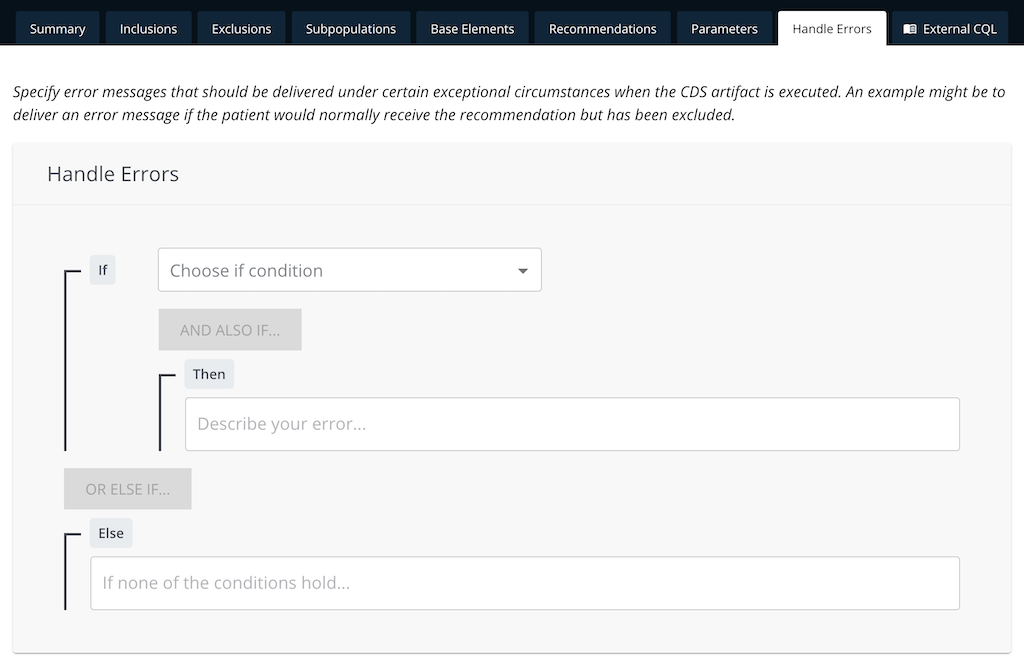
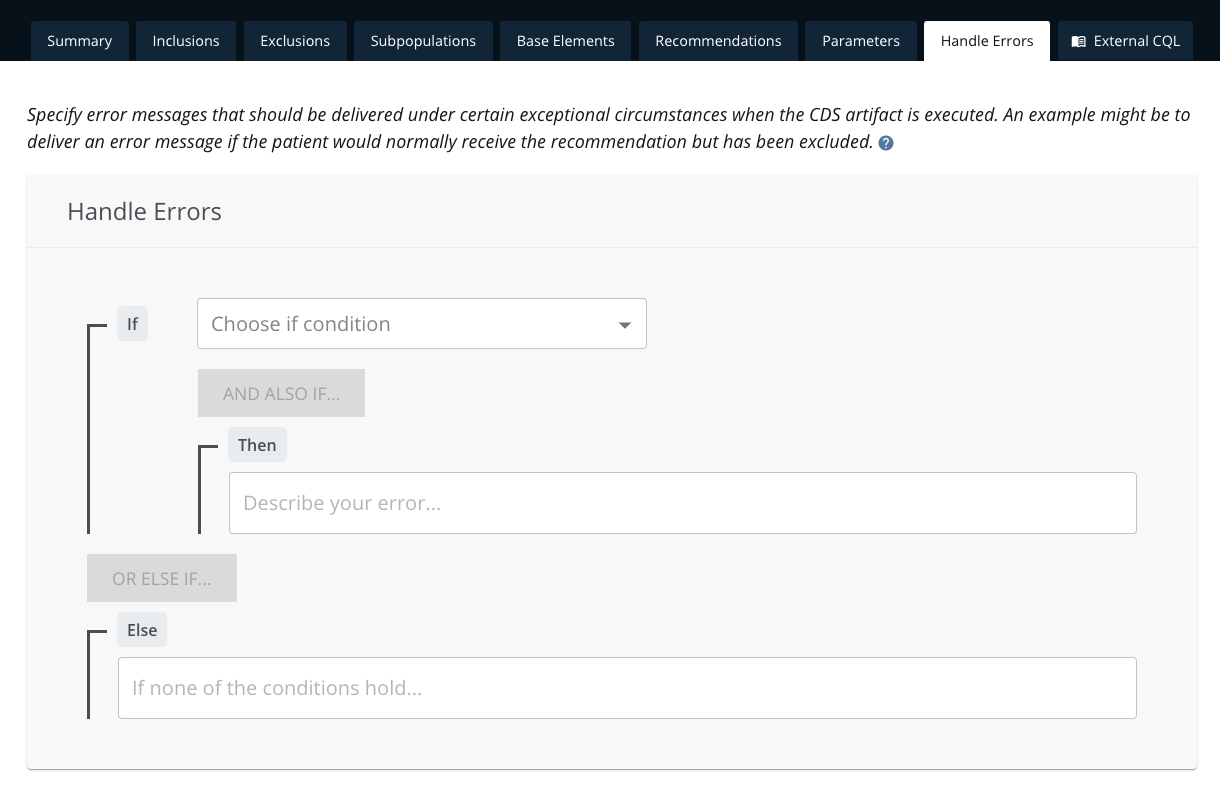
Merged in help_links (pull request #466)
Help links to Artifacts, Testing, and each Workspace tab view

* added help link components and styles

changes to add no referrer and more code cleanup

Updated documentation images for help link

Approved-by: Jacob Thomas
Approved-by: Noranda Brown

diff --git a/frontend/src/containers/Builder.js b/frontend/src/containers/Builder.js
@@ -57,6 +57,8 @@ import { parametersHaveWarnings } from 'components/builder/parameters/utils';
 import artifactProps from 'prop-types/artifact';
 import { Summary } from 'components/builder/summary';
 
+import { HelpLink } from 'components/elements';
+
 // TODO: This is needed because the tree on this.state is not updated in time. Figure out a better way to handle this
 let localTree;
 
@@ -697,6 +699,7 @@ export class Builder extends Component {
                     Specify criteria to identify a target population that should receive a recommendation from this
                     artifact. Examples might include an age range, gender, presence of a certain condition, or lab
                     results within a specific range.
+                    <HelpLink linkPath="documentation#Inclusions" />
                   </div>
                   {this.renderConjunctionGroup('expTreeInclude')}
                 </TabPanel>
@@ -707,6 +710,7 @@ export class Builder extends Component {
                     therefore, from receiving a recommendation from this artifact. Examples might include pregnancy
                     status, out of bound lab results, or evidence that the recommended therapy is already being used by
                     the patient.
+                    <HelpLink linkPath="documentation#Exclusions" />
                   </div>
                   {this.renderConjunctionGroup('expTreeExclude')}
                 </TabPanel>
@@ -716,6 +720,7 @@ export class Builder extends Component {
                     Specify criteria that further segments the target population into subpopulations that should receive
                     more specific recommendations. An example might be splitting the population by risk score so that
                     higher risk patients receive a stronger recommendation than lower risk patients.
+                    <HelpLink linkPath="documentation#Subpopulations" />
                   </div>
 
                   <Subpopulations
@@ -749,6 +754,7 @@ export class Builder extends Component {
                     Specify individual elements that can be re-used in the Inclusions, Exclusions, and Subpopulations,
                     or should standalone as independent expressions in the resulting artifact. An example might be a lab
                     result value that is referenced multiple times throughout the artifact.
+                    <HelpLink linkPath="documentation#Base_Elements" />
                   </div>
 
                   <BaseElements
@@ -783,6 +789,7 @@ export class Builder extends Component {
                     Specify the text-based recommendations that should be delivered to the clinician when a patient
                     meets the eligible criteria as defined in the artifact. Examples might include recommendations to
                     order a medication, perform a test, or provide the patient educational materials.
+                    <HelpLink linkPath="documentation#Recommendations" />
                   </div>
 
                   <Recommendations
@@ -801,6 +808,7 @@ export class Builder extends Component {
                     Specify named parameters that allow individual implementers to control pre-determined aspects of the
                     artifact in their own environment. Examples might include the option to allow lower grade evidence,
                     thresholds at which recommendations should be provided, or customized age ranges.
+                    <HelpLink linkPath="documentation#Parameters" />
                   </div>
 
                   <Parameters
@@ -817,6 +825,7 @@ export class Builder extends Component {
                     Specify error messages that should be delivered under certain exceptional circumstances when the CDS
                     artifact is executed. An example might be to deliver an error message if the patient would normally
                     receive the recommendation but has been excluded.
+                    <HelpLink linkPath="documentation#Handle_Errors" />
                   </div>
 
                   <ErrorStatement handleUpdateErrorStatement={this.updateErrorStatement} />
@@ -825,6 +834,7 @@ export class Builder extends Component {
                 <TabPanel>
                   <div className="workspace-blurb">
                     Reference external CQL libraries that can be used in Inclusions, Exclusions, and Subpopulations.
+                    <HelpLink linkPath="documentation#External_CQL" />
                   </div>
 
                   <ExternalCQL

diff --git a/frontend/src/components/testing/PatientsTable.js b/frontend/src/components/testing/PatientsTable.js
@@ -6,6 +6,7 @@ import { Check as CheckIcon, Lock as LockIcon } from '@material-ui/icons';
 
 import PatientsTableRow from './PatientsTableRow';
 import ExecuteCQLModal from './modals/ExecuteCQLModal';
+import { HelpLink } from 'components/elements';
 import { VSACAuthenticationModal } from 'components/modals';
 import { sortAlphabeticallyByPatientName } from 'utils/sort';
 import { useSpacingStyles, useTableStyles } from 'styles/hooks';
@@ -39,25 +40,31 @@ const PatientsTable = ({ handleExecuteCQL, patients }) => {
 
   return (
     <div className={spacingStyles.verticalPadding} id="patients-table">
-      <div className={styles.patientsTableButtons}>
-        <Button
-          color="primary"
-          disabled={Boolean(vsacApiKey)}
-          onClick={() => setShowVSACAuthenticationModal(true)}
-          variant="contained"
-          startIcon={Boolean(vsacApiKey) ? <CheckIcon /> : <LockIcon />}
-        >
-          {Boolean(vsacApiKey) ? 'VSAC Authenticated' : 'Authenticate VSAC'}
-        </Button>
+      <div className={styles.helpLinkRow}>
+        <div className={styles.patientsTableButtons}>
+          <Button
+            color="primary"
+            disabled={Boolean(vsacApiKey)}
+            onClick={() => setShowVSACAuthenticationModal(true)}
+            variant="contained"
+            startIcon={Boolean(vsacApiKey) ? <CheckIcon /> : <LockIcon />}
+          >
+            {Boolean(vsacApiKey) ? 'VSAC Authenticated' : 'Authenticate VSAC'}
+          </Button>
 
-        <Button
-          color="primary"
-          disabled={!Boolean(vsacApiKey) || selectedPatients.length === 0}
-          onClick={() => setShowExecuteCQLModal(true)}
-          variant="contained"
-        >
-          Execute CQL on Selected Patients
-        </Button>
+          <Button
+            color="primary"
+            disabled={!Boolean(vsacApiKey) || selectedPatients.length === 0}
+            onClick={() => setShowExecuteCQLModal(true)}
+            variant="contained"
+          >
+            Execute CQL on Selected Patients
+          </Button>
+        </div>
+
+        <div className={styles.helpLink}>
+          <HelpLink linkPath="documentation#Testing_Artifacts" showText />
+        </div>
       </div>
 
       <TableContainer>

diff --git a/frontend/src/components/artifact/Artifact.js b/frontend/src/components/artifact/Artifact.js
@@ -10,11 +10,16 @@ import ArtifactTable from './ArtifactTable';
 import { useSpacingStyles, useTextStyles } from 'styles/hooks';
 import { addArtifact, deleteArtifact, fetchArtifacts, updateArtifact, duplicateArtifact } from 'queries/artifacts';
 
+import { HelpLink } from 'components/elements';
+
+import useStyles from './styles';
+
 const Artifact = () => {
   const [showModal, setShowModal] = useState(false);
   const spacingStyles = useSpacingStyles();
   const textStyles = useTextStyles();
   const queryClient = useQueryClient();
+  const styles = useStyles();
   const { data, error, isLoading, isSuccess } = useQuery('artifacts', () => fetchArtifacts());
   const artifacts = data ?? [];
   const resetArtifacts = () => queryClient.invalidateQueries('artifacts');
@@ -39,9 +44,12 @@ const Artifact = () => {
 
       {isSuccess && (
         <div className={clsx(spacingStyles.minHeight, spacingStyles.verticalPadding)}>
-          <Button color="primary" onClick={() => setShowModal(true)} startIcon={<AddIcon />} variant="contained">
-            Create New Artifact
-          </Button>
+          <div className={styles.helpLink}>
+            <Button color="primary" onClick={() => setShowModal(true)} startIcon={<AddIcon />} variant="contained">
+              Create New Artifact
+            </Button>
+            <HelpLink linkPath="documentation#Creating_and_Managing_Artifacts" showText />
+          </div>
 
           {artifacts.length > 0 ? (
             <ArtifactTable

diff --git a/frontend/src/components/elements/HelpLink/HelpLink.js b/frontend/src/components/elements/HelpLink/HelpLink.js
@@ -1,0 +1,49 @@
+import React from 'react';
+import PropTypes from 'prop-types';
+import { Link as RouterLink } from 'react-router-dom';
+import { Button, IconButton, Tooltip } from '@material-ui/core';
+import { Help as HelpIcon } from '@material-ui/icons';
+
+import useStyles from './styles';
+
+const HelpLink = ({ linkPath, showText, tooltipTitle = 'View Documentation' }) => {
+  const styles = useStyles();
+
+  return (
+    <>
+      {showText ? (
+        <Button
+          className={styles.helpButton}
+          color="primary"
+          component={RouterLink}
+          rel="noopener noreferrer"
+          target="_blank"
+          to={`/${linkPath}`}
+        >
+          <HelpIcon /> HELP
+        </Button>
+      ) : (
+        <Tooltip title={tooltipTitle} arrow>
+          <IconButton
+            className={styles.helpLink}
+            href={`${process.env.PUBLIC_URL}/${linkPath}`}
+            rel="noopener noreferrer"
+            size="small"
+            target="_blank"
+            variant="contained"
+          >
+            <HelpIcon />
+          </IconButton>
+        </Tooltip>
+      )}
+    </>
+  );
+};
+
+HelpLink.propTypes = {
+  linkPath: PropTypes.string.isRequired,
+  showText: PropTypes.bool,
+  tooltipTitle: PropTypes.string
+};
+
+export default HelpLink;

diff --git a/frontend/src/components/elements/HelpLink/styles.js b/frontend/src/components/elements/HelpLink/styles.js
@@ -1,0 +1,22 @@
+import { makeStyles } from '@material-ui/core/styles';
+
+export default makeStyles(
+  theme => ({
+    helpButton: {
+      color: theme.palette.common.blueHighlight,
+      fontSize: '16px',
+      fontWeight: '600',
+      '& svg': {
+        fontSize: '18px',
+        marginRight: '3px'
+      }
+    },
+    helpLink: {
+      color: theme.palette.common.blueHighlight,
+      '& svg': {
+        fontSize: '18px'
+      }
+    }
+  }),
+  { name: 'HelpLink', index: 1 }
+);

diff --git a/frontend/src/components/testing/styles.js b/frontend/src/components/testing/styles.js
@@ -59,6 +59,12 @@ export default makeStyles(
         marginRight: '20px'
       }
     },
+    helpLinkRow: {
+      display: 'flex'
+    },
+    helpLink: {
+      margin: '2em 0 2em auto'
+    },
     testerInstructions: {
       backgroundColor: theme.palette.common.grayLighter,
       borderRadius: '0.2em',

diff --git a/frontend/src/components/elements/index.js b/frontend/src/components/elements/index.js
@@ -1,4 +1,5 @@
 export { default as Dropdown } from './Dropdown';
+export { default as HelpLink } from './HelpLink';
 export { default as KeyValueList } from './KeyValueList';
 export { default as Link } from './Link';
 export { default as Modal } from './Modal';

diff --git a/frontend/src/components/artifact/styles.js b/frontend/src/components/artifact/styles.js
@@ -38,6 +38,10 @@ export default makeStyles(
     },
     cpgPercentageLabelZero: {
       color: theme.palette.common.blue
+    },
+    helpLink: {
+      display: 'flex',
+      justifyContent: 'space-between'
     }
   }),
   { name: 'Artifact', index: 1 }

diff --git a/frontend/src/components/elements/HelpLink/index.js b/frontend/src/components/elements/HelpLink/index.js
@@ -1,0 +1,1 @@
+export { default } from './HelpLink';
